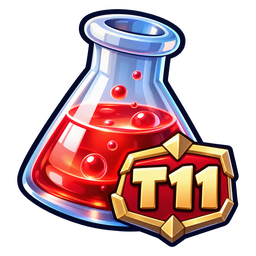
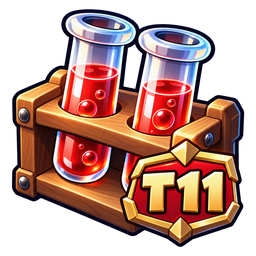
Accueil : icône Recherches T11 remplacée par les tubes à essai en bois

diff --git a/index.html b/index.html
@@ -41,7 +41,7 @@
           <button class="module-card furnace-card" data-go="furnace"><span class="card-icon home-item-icon" aria-hidden="true"><img src="assets/visuals/home/furnace-fc10-icon.png?v=20261008-fc10" alt="" width="128" height="128"></span><span class="home-card-copy"><b>Chaudière</b></span></button>
[2 lines of base64/hex data omitted]
-          <button class="module-card academy-card" data-go="t11"><span class="card-icon home-item-icon" aria-hidden="true"><img src="assets/visuals/home/t11-vial.png?v=20261017" alt="" width="128" height="128"></span><span class="home-card-copy"><b>Recherches T11</b></span></button>
+          <button class="module-card academy-card" data-go="t11"><span class="card-icon home-item-icon" aria-hidden="true"><img src="assets/visuals/home/t11-vial.png?v=20261017b" alt="" width="128" height="128"></span><span class="home-card-copy"><b>Recherches T11</b></span></button>
           <button class="module-card academy-card" data-go="t12"><span class="card-icon home-item-icon" aria-hidden="true"><img src="assets/visuals/home/t12-vial.png?v=20261017" alt="" width="128" height="128"></span><span class="home-card-copy"><b>Recherches T12</b></span></button>
           <button class="module-card coming-card" type="button" disabled><span class="wip-stamp" aria-hidden="true"><svg viewBox="0 0 120 120"><defs><filter id="wipStampInk" x="-5%" y="-5%" width="110%" height="110%"><feTurbulence type="fractalNoise" baseFrequency=".05" numOctaves="3" seed="11"/><feColorMatrix type="matrix" values="0 0 0 0 0  0 0 0 0 0  0 0 0 0 0  1 0 0 0 0" result="wear"/><feTurbulence type="fractalNoise" baseFrequency=".9" numOctaves="1" seed="3"/><feColorMatrix type="matrix" values="0 0 0 0 0  0 0 0 0 0  0 0 0 0 0  1 0 0 0 0" result="grain"/><feComposite in="wear" in2="grain" operator="arithmetic" k1="0" k2="-6" k3="-1.6" k4="5.8" result="ink"/><feComposite in="SourceGraphic" in2="ink" operator="in"/></filter><path id="wipStampTop" d="M16.5 60 A43.5 43.5 0 0 1 103.5 60"/><path id="wipStampBottom" d="M9.5 60 A50.5 50.5 0 0 0 110.5 60"/></defs><g filter="url(#wipStampInk)" fill="none" stroke="currentColor"><circle cx="60" cy="60" r="56" stroke-width="5"/><circle cx="60" cy="60" r="38.5" stroke-width="2"/><text fill="currentColor" stroke="none" font-size="10.5" letter-spacing=".4" text-anchor="middle"><textPath href="#wipStampTop" startOffset="50%">EN DÉVELOPPEMENT</textPath></text><text fill="currentColor" stroke="none" font-size="11.5" letter-spacing="1.4" text-anchor="middle"><textPath href="#wipStampBottom" startOffset="50%">★ BIENTÔT ★</textPath></text><circle cx="12.5" cy="60" r="2" fill="currentColor" stroke="none"/><circle cx="107.5" cy="60" r="2" fill="currentColor" stroke="none"/><path d="M30 42 H90 M30 78 H90" stroke-width="2.5"/><text x="60" y="70.5" fill="currentColor" stroke="none" font-size="30" text-anchor="middle" letter-spacing="1">WIP</text></g></svg></span><span class="home-card-copy"><b>Héros VS Héros</b></span></button>
         </div>

diff --git a/tools/make-home-vials.py b/tools/make-home-vials.py
@@ -5,7 +5,7 @@ import sys
 from PIL import Image
 
 SRC = sys.argv[1] if len(sys.argv) > 1 else '/home/koema-jr/Bureau/Screen Iphone/'
-FILES = {'t11': 'Image ChatGPT 17 oct. 2026, 10_13_26.png',  # fiole rouge transparente, badge T11
+FILES = {'t11': 'Potions rouges T11 en bois.png',  # tubes à essai dans un support en bois, badge T11
          't12': 'Flacon de potion magique T12.png'}           # fiole dorée en fusion, badge T12
 SIZE, FILL = 256, .93
 for key, file in FILES.items():
